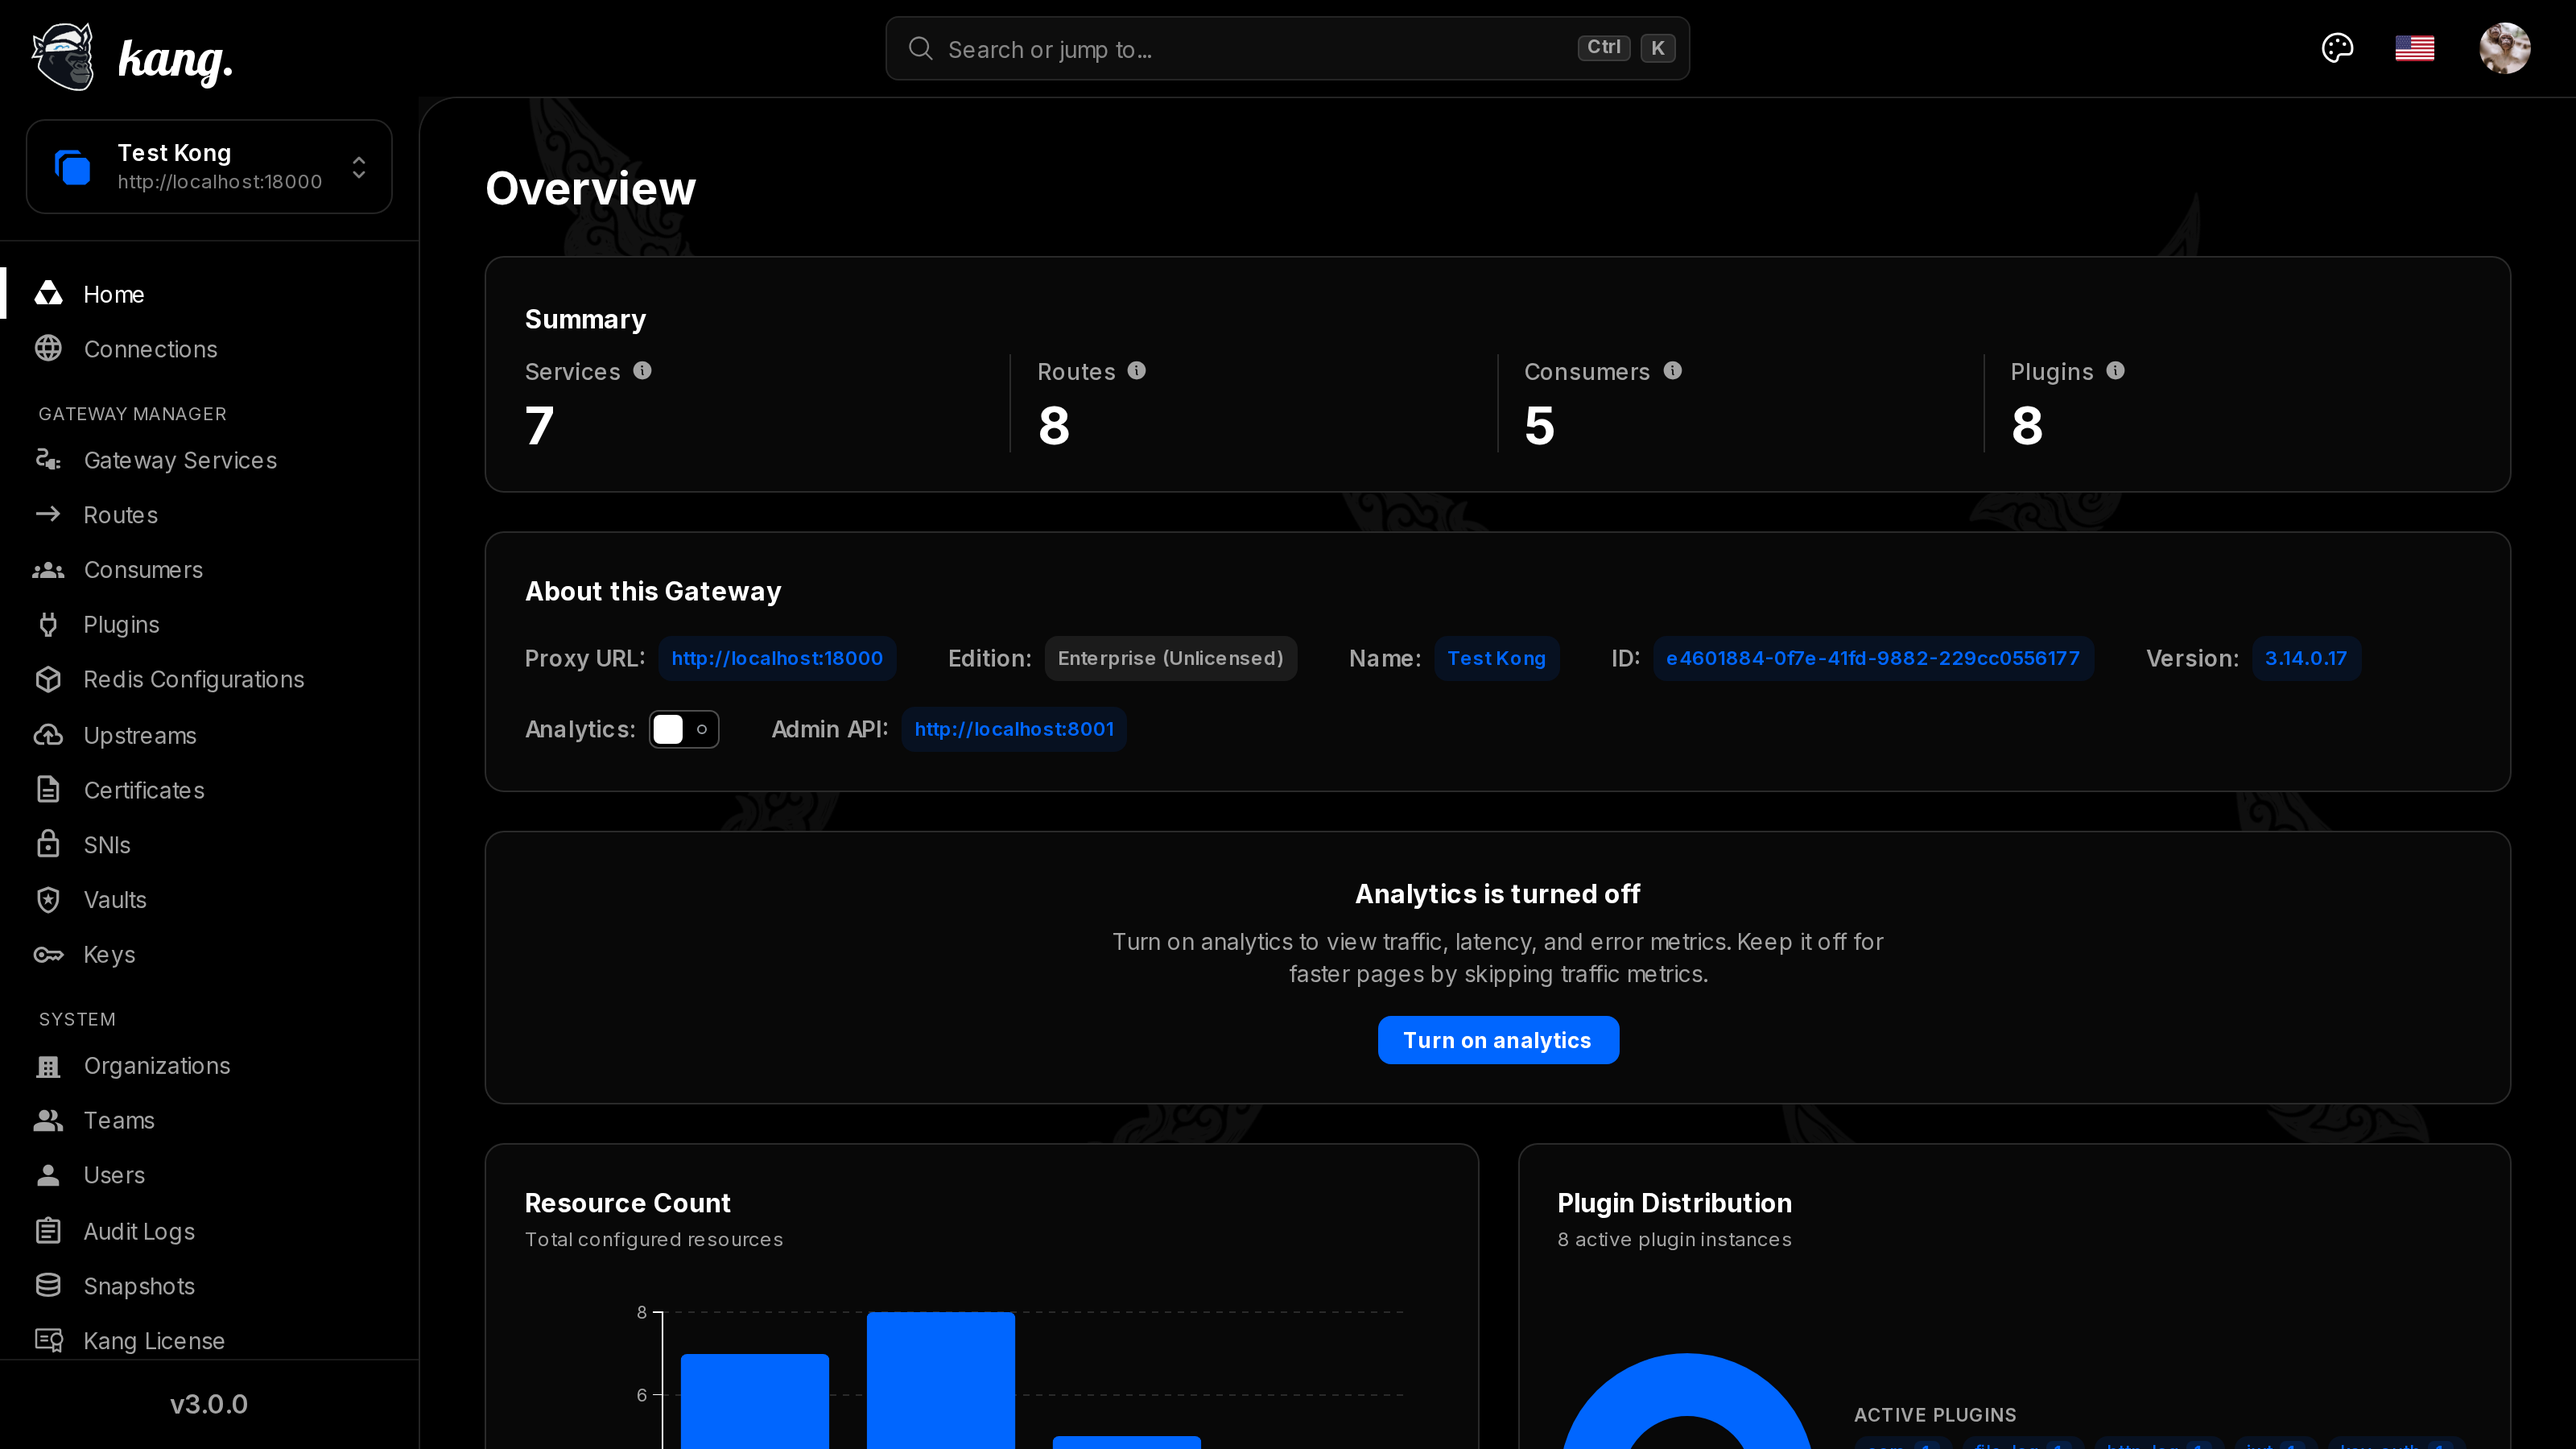
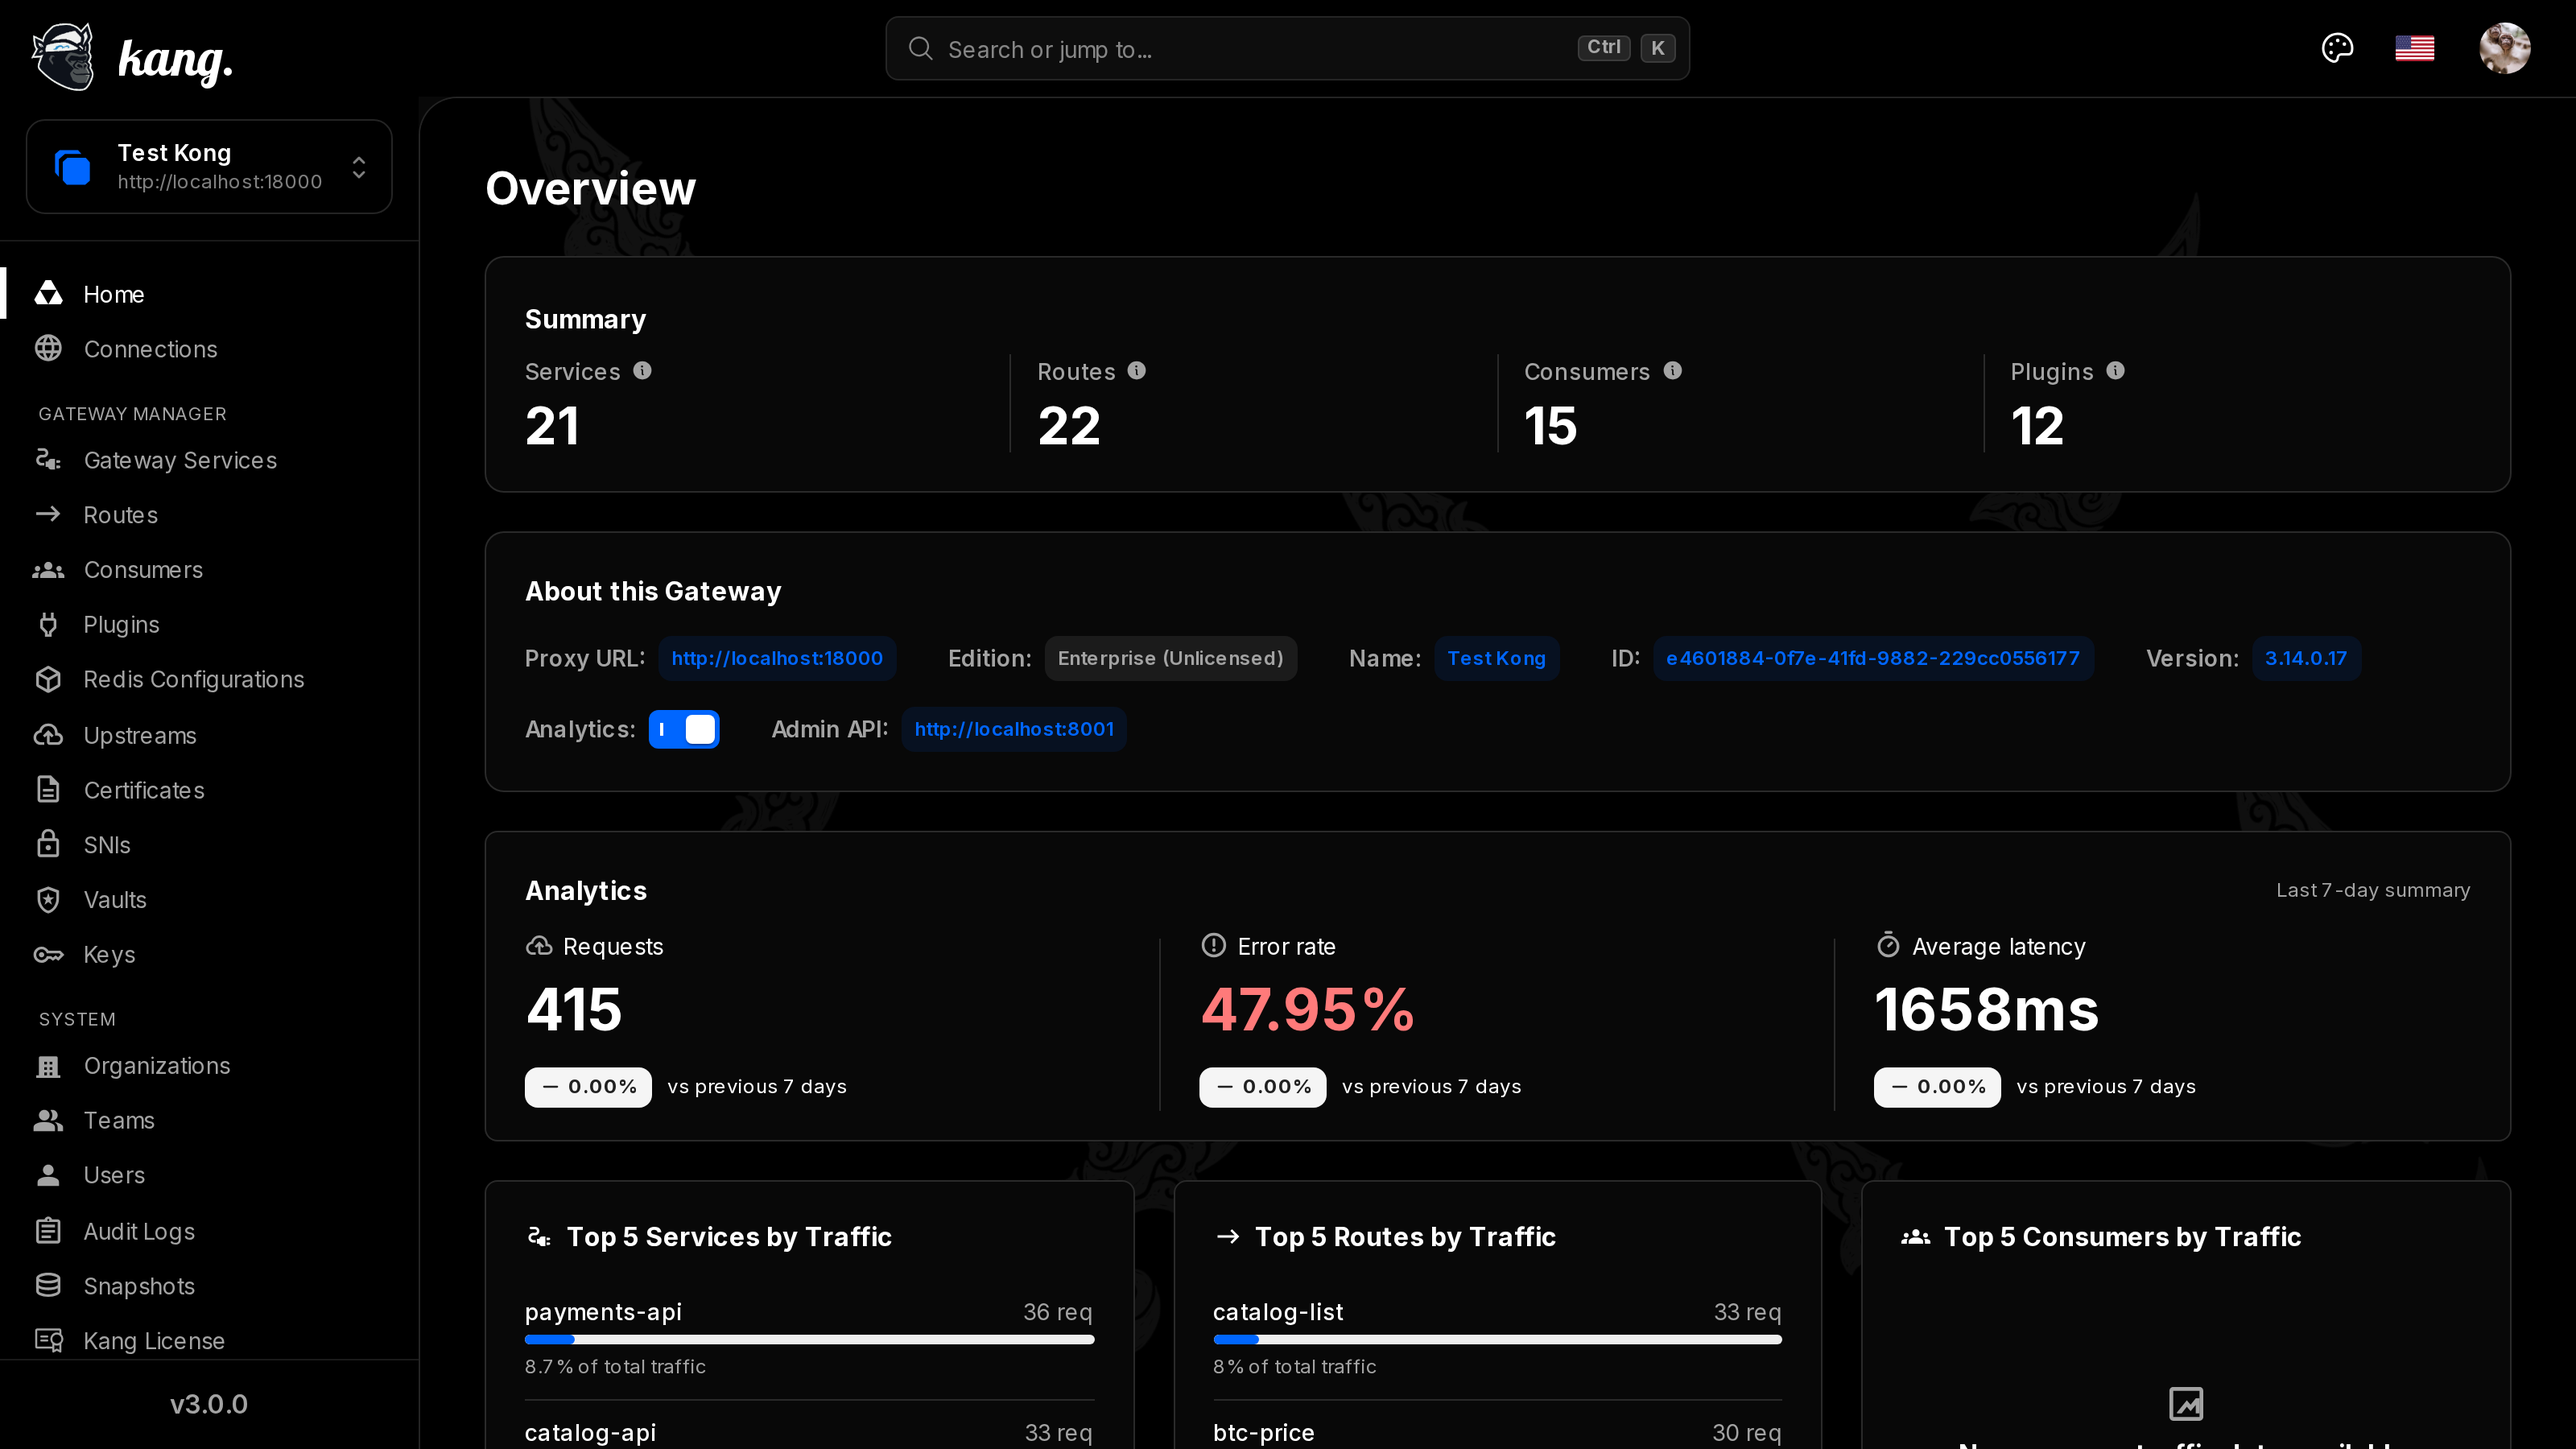
docs: analytics-enabled screenshots, theme gallery, and monitoring job-name fix
- Re-captured screenshots with live analytics data (Kong prometheus plugin →
  VictoriaMetrics scrape → dashboard), including service analytics, users,
  organizations, and teams; replaced the tour GIF with a real recorded session.
- Added theme screenshots (Classic / Gold / Black & Blue / Black & Gold).
- Monitoring guide correction discovered hands-on: the Prometheus scrape job
  name must match the hostname of the Kang connection's Proxy URL, since Kang
  derives the PromQL job matcher from it. Updated EN/ID guide, compose README,
  and chart README.

diff --git a/README.md b/README.md
@@ -30,9 +30,19 @@ This is Kang's public home for installation files and documentation. The applica
 | --- | --- | --- |
 | ![Overview](screenshots/01-overview.png) | ![Services](screenshots/02-services.png) | ![Audit Logs](screenshots/12-audit-logs.png) |
 
-| Plugins | Kong Connections | Service detail |
+| Plugins | Kong Connections | Service analytics |
 | --- | --- | --- |
-| ![Plugins](screenshots/05-plugins.png) | ![Connections](screenshots/11-connections.png) | ![Service detail](screenshots/15-service-detail.png) |
+| ![Plugins](screenshots/05-plugins.png) | ![Connections](screenshots/11-connections.png) | ![Service analytics](screenshots/20-service-analytics.png) |
+
+| Organizations | Teams | Users |
+| --- | --- | --- |
+| ![Organizations](screenshots/21-organizations.png) | ![Teams](screenshots/22-teams.png) | ![Users](screenshots/13-users.png) |
+
+**Themes** — Classic, Gold, Black & Blue, and Black & Gold:
+
+| Classic | Gold | Black & Blue | Black & Gold |
+| --- | --- | --- | --- |
+| ![Classic](screenshots/16-theme-classic.png) | ![Gold](screenshots/17-theme-gold.png) | ![Black & Blue](screenshots/18-theme-black-blue.png) | ![Black & Gold](screenshots/19-theme-black-gold.png) |
 
 <details>
 <summary>More screenshots</summary>

diff --git a/docs/src/content/docs/guides/monitoring.md b/docs/src/content/docs/guides/monitoring.md
@@ -42,12 +42,16 @@ Any Prometheus-compatible query API works. The store must be able to reach Kong'
 
 ### VictoriaMetrics (single node, Docker)
 
+> [!IMPORTANT]
+> The scrape **job name must match the hostname of the Kang connection's Proxy URL**. Kang derives the PromQL `job` matcher from that hostname (a connection with proxy URL `http://localhost:18000` queries `job="localhost"`; `http://kong-gw.internal:8000` queries `job="kong-gw.internal"`). If the names do not match, the dashboard stays empty even though scraping works.
+
 ```sh
 cat > vm.yml <<'EOF'
 global:
   scrape_interval: 15s
 scrape_configs:
-  - job_name: kong
+  # job_name = the hostname of the Kang connection's Proxy URL
+  - job_name: localhost
     static_configs:
       - targets: ["kong-data-plane:8100"]   # reachable hostname or IP of the Kong data plane
 EOF
@@ -64,7 +68,7 @@ docker run --rm --name victoria-metrics -p 127.0.0.1:9090:9090 \
 If Kong runs on the host, target `host.docker.internal:8100` (Docker Desktop) or the host IP. Verify scraping:
 
 ```sh
-curl -s 'http://localhost:9090/api/v1/query?query=kong_http_requests_total'
+curl -s 'http://localhost:9090/api/v1/query?query=kong_http_requests_total{job="localhost"}'
 ```
 
 ### Prometheus

diff --git a/docs/src/content/docs/id/guides/monitoring.md b/docs/src/content/docs/id/guides/monitoring.md
@@ -42,12 +42,16 @@ Query API yang kompatibel dengan Prometheus apa pun bisa dipakai. Store harus bi
 
 ### VictoriaMetrics (single node, Docker)
 
+> [!IMPORTANT]
+> **Nama job scrape harus sama dengan hostname dari Proxy URL koneksi Kang.** Kang menurunkan matcher PromQL `job` dari hostname itu (koneksi dengan proxy URL `http://localhost:18000` me-query `job="localhost"`; `http://kong-gw.internal:8000` me-query `job="kong-gw.internal"`). Kalau namanya tidak cocok, dashboard tetap kosong meskipun scraping berjalan.
+
 ```sh
 cat > vm.yml <<'EOF'
 global:
   scrape_interval: 15s
 scrape_configs:
-  - job_name: kong
+  # job_name = hostname dari Proxy URL koneksi Kang
+  - job_name: localhost
     static_configs:
       - targets: ["kong-data-plane:8100"]   # hostname atau IP data plane Kong yang reachable
 EOF
@@ -64,7 +68,7 @@ docker run --rm --name victoria-metrics -p 127.0.0.1:9090:9090 \
 Jika Kong berjalan di host, target `host.docker.internal:8100` (Docker Desktop) atau IP host. Verifikasi scraping:
 
 ```sh
-curl -s 'http://localhost:9090/api/v1/query?query=kong_http_requests_total'
+curl -s 'http://localhost:9090/api/v1/query?query=kong_http_requests_total{job="localhost"}'
 ```
 
 ### Prometheus

diff --git a/compose/README.md b/compose/README.md
@@ -37,7 +37,8 @@ The dashboard can show traffic, latency, and error analytics. Kang reads metrics
    global:
      scrape_interval: 15s
    scrape_configs:
-     - job_name: kong
+     # job_name must match the hostname of the Kang connection's Proxy URL
+     - job_name: localhost
        static_configs:
          - targets: ["kong-data-plane:8100"]
    EOF

diff --git a/charts/kang/README.md b/charts/kang/README.md
@@ -209,7 +209,8 @@ metrics:
     global:
       scrape_interval: 15s
     scrape_configs:
-      - job_name: kong
+      # job_name must match the hostname of the Kang connection's Proxy URL
+      - job_name: my-kong-system
         static_configs:
           - targets: ["kong-status.my-kong-system.svc:8100"]
 ```
